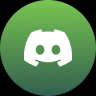
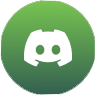
fix footer

Changed region(s): [[0.0, 0.0, 1.0, 1.0]]

diff --git a/src/components/footer/footer.js b/src/components/footer/footer.js
@@ -1,91 +1,64 @@
-import React, { Component } from "react";
+import React from "react";
 
 import "./footer.css";
 import { Container, Row } from "react-bootstrap";
-// import Mono_Logo from "../../assets/footer/Logo.png";
-import Facebook from "../../assets/footer/facebook.png";
-import Twitter from "../../assets/footer/twitter.png";
-import Google from "../../assets/footer/google.png";
-import Twitch from "../../assets/footer/twitter.png";
 
-class Footer extends Component {
-  constructor(props) {
-    super(props);
-    this.state = {
-      data: [
-        {
-          title: "My Account",
-          text: [
-            "Authors",
-            "Collection",
-            "Author Profile",
-            "Create Collection",
-          ],
-        },
-        {
-          title: "Resources",
-          text: ["Help & Support", "Live Auctions", "Item Details", "Activity"],
-        },
-        {
-          title: "Company",
-          text: ["About Us", "Contact Us", "Our Blog", "Discover"],
-        },
-      ],
-      isMobile: false,
-    };
-  }
-  render() {
-    return (
-      <div className="footer-container">
-        <Container>
-          <section className="footer-section1">
-            <div className="footer-section1-layout">
-              <div className="footer-sectiion-icon">
-                <img
-                  alt=""
-                  src={Facebook}
-                  className="footer-sectiion-icon-round"
-                />
-              </div>
-              <div className="footer-sectiion-icon">
-                <img
-                  alt=""
-                  src={Twitter}
-                  className="footer-sectiion-icon-round"
-                />
-              </div>
-              <div className="footer-sectiion-icon">
-                <img
-                  alt=""
-                  src={Google}
-                  className="footer-sectiion-icon-round"
-                />
-              </div>
-              <div className="footer-sectiion-icon">
-                <img
-                  alt=""
-                  src={Twitch}
-                  className="footer-sectiion-icon-round"
-                />
-              </div>
-            </div>
-            <Row>
-              <p className="footer-sectiion1-text">
-                <span className="footer-sectiion1-span">CATENA</span> is a connection from the past to the present to the future
-              </p>
-            </Row>
-          </section>
-          <section className="footer-copyright">
-            <Row>
-              <p className="footer-copyright-text">
-              Copyright 2022 Catena. All Rights Reserved.
-              </p>
-            </Row>
-          </section>
-        </Container>
-      </div>
-    );
-  }
+import Twitter from "../../assets/footer/twitter.png";
+import Twitch from "../../assets/footer/twitch.png";
+import Discord from "../../assets/footer/discord.png";
+
+function Footer () {
+
+  return (
+    <div className="footer-container">
+      <Container>
+        <section className="footer-section1">
+          <div className="footer-section1-layout">
+            {/* <div className="footer-sectiion-icon">
+              <img
+                alt=""
+                src={Facebook}
+                className="footer-sectiion-icon-round"
+              />
+            </div> */}
+            <a className="footer-sectiion-icon" href="https://twitter.com/welcomecatena">
+              <img
+                alt=""
+                src={Twitter}
+                className="footer-sectiion-icon-round"
+              />
+            </a>
+            <a className="footer-sectiion-icon" href="https://community.catena.one/">
+              <img
+                alt=""
+                src={Twitch}
+                className="footer-sectiion-icon-round"
+              />
+            </a>
+            <a className="footer-sectiion-icon" href="http://bit.ly/metacommunity">
+              <img
+                alt=""
+                src={Discord}
+                className="footer-sectiion-icon-round"
+              />
+            </a>
+          </div>
+          <Row>
+            <p className="footer-sectiion1-text">
+              <span className="footer-sectiion1-span">CATENA</span> is a connection from the past to the present to the future
+            </p>
+          </Row>
+        </section>
+        <section className="footer-copyright">
+          <Row>
+            <p className="footer-copyright-text">
+            Copyright 2022 Catena. All Rights Reserved.
+            </p>
+          </Row>
+        </section>
+      </Container>
+    </div>
+  );
 }
 
 export default Footer;

diff --git a/src/components/footer/footer.css b/src/components/footer/footer.css
@@ -34,7 +34,8 @@
     height:40px;
     width: 40px;
     margin-right: 2em;
-    border-radius: 10%
+    border-radius: 10%;
+    cursor: pointer;
 }
 .footer-container .footer-section1  .footer-sectiion-icon .footer-sectiion-icon-round{
     height: 30px;
